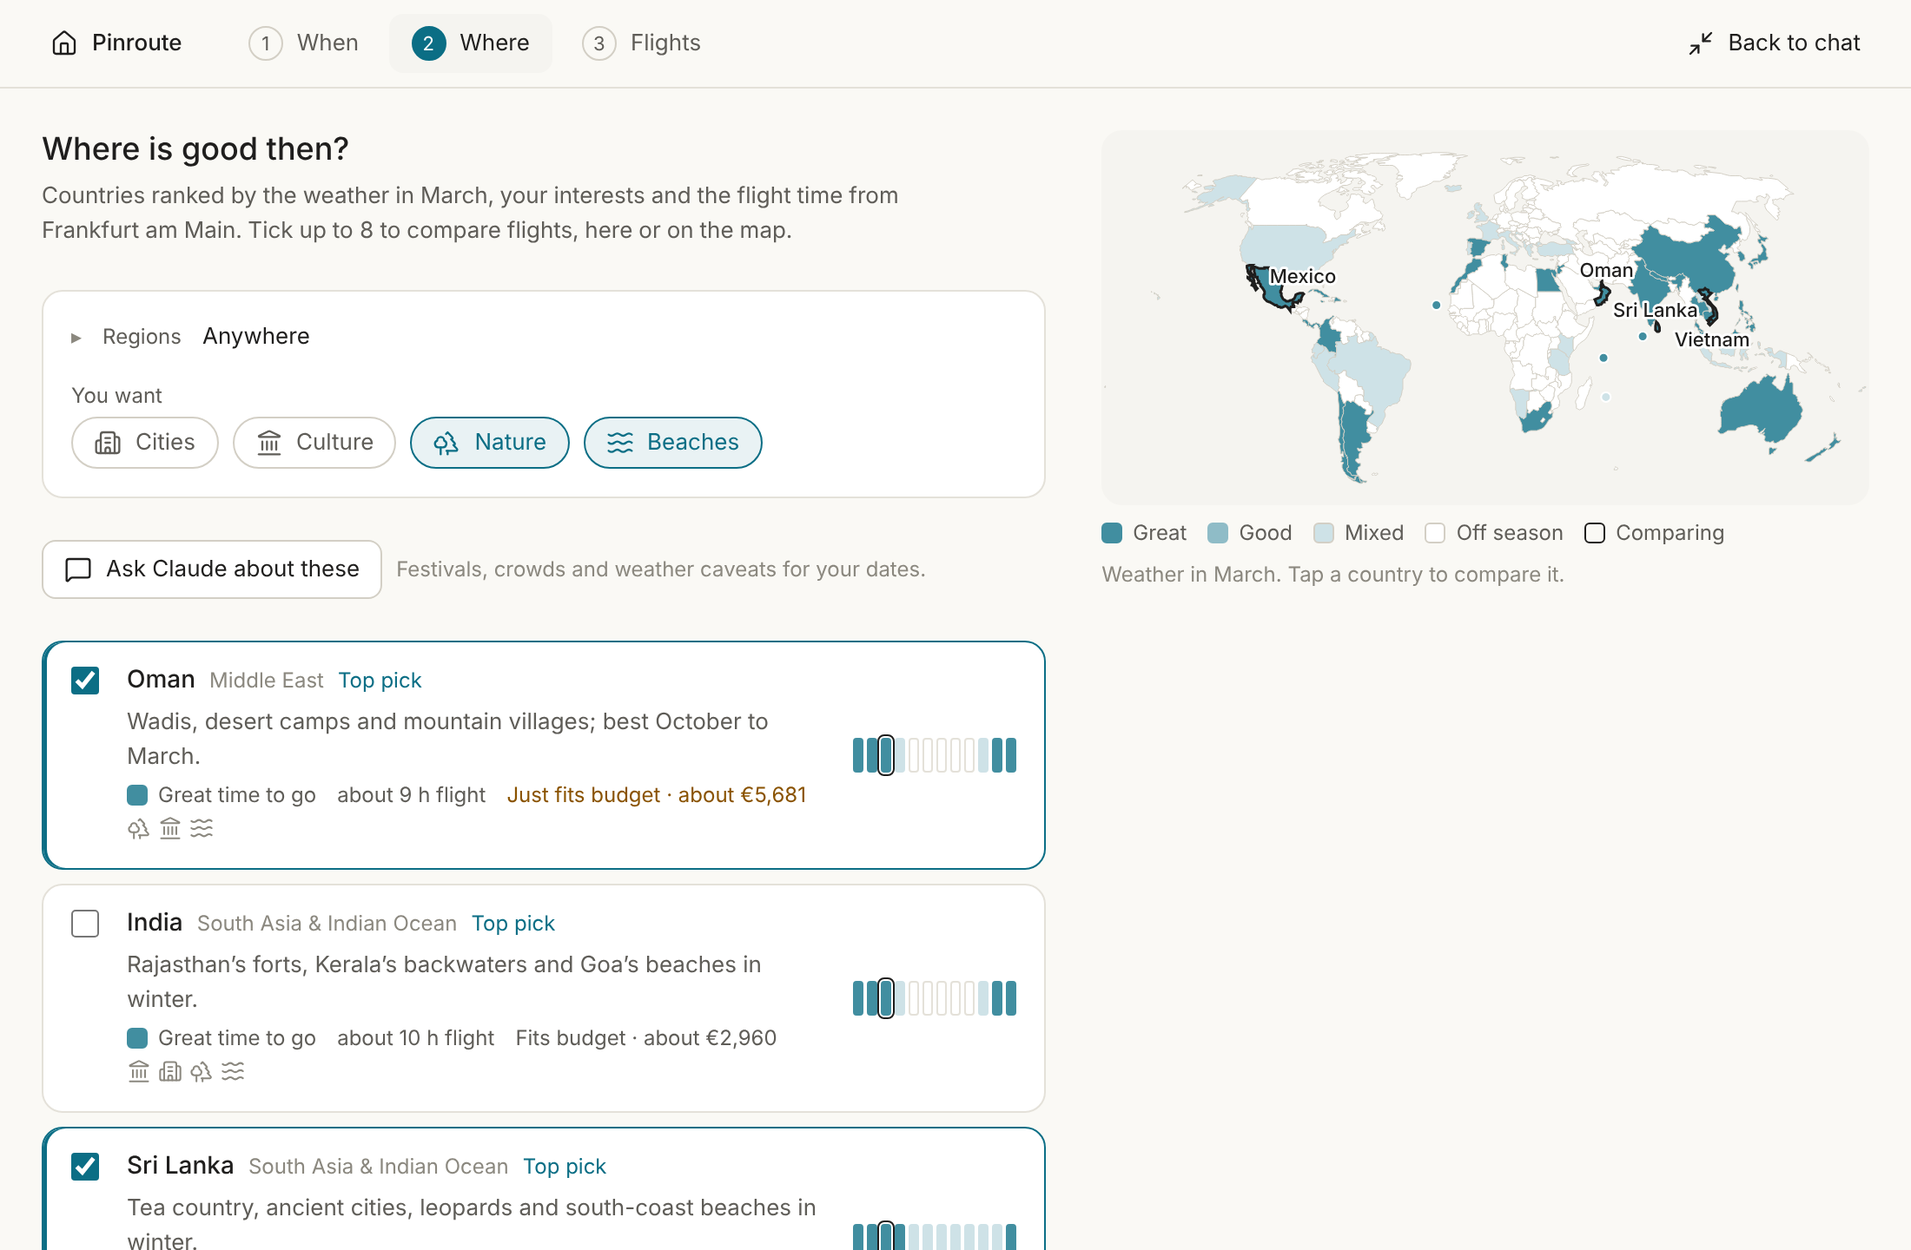
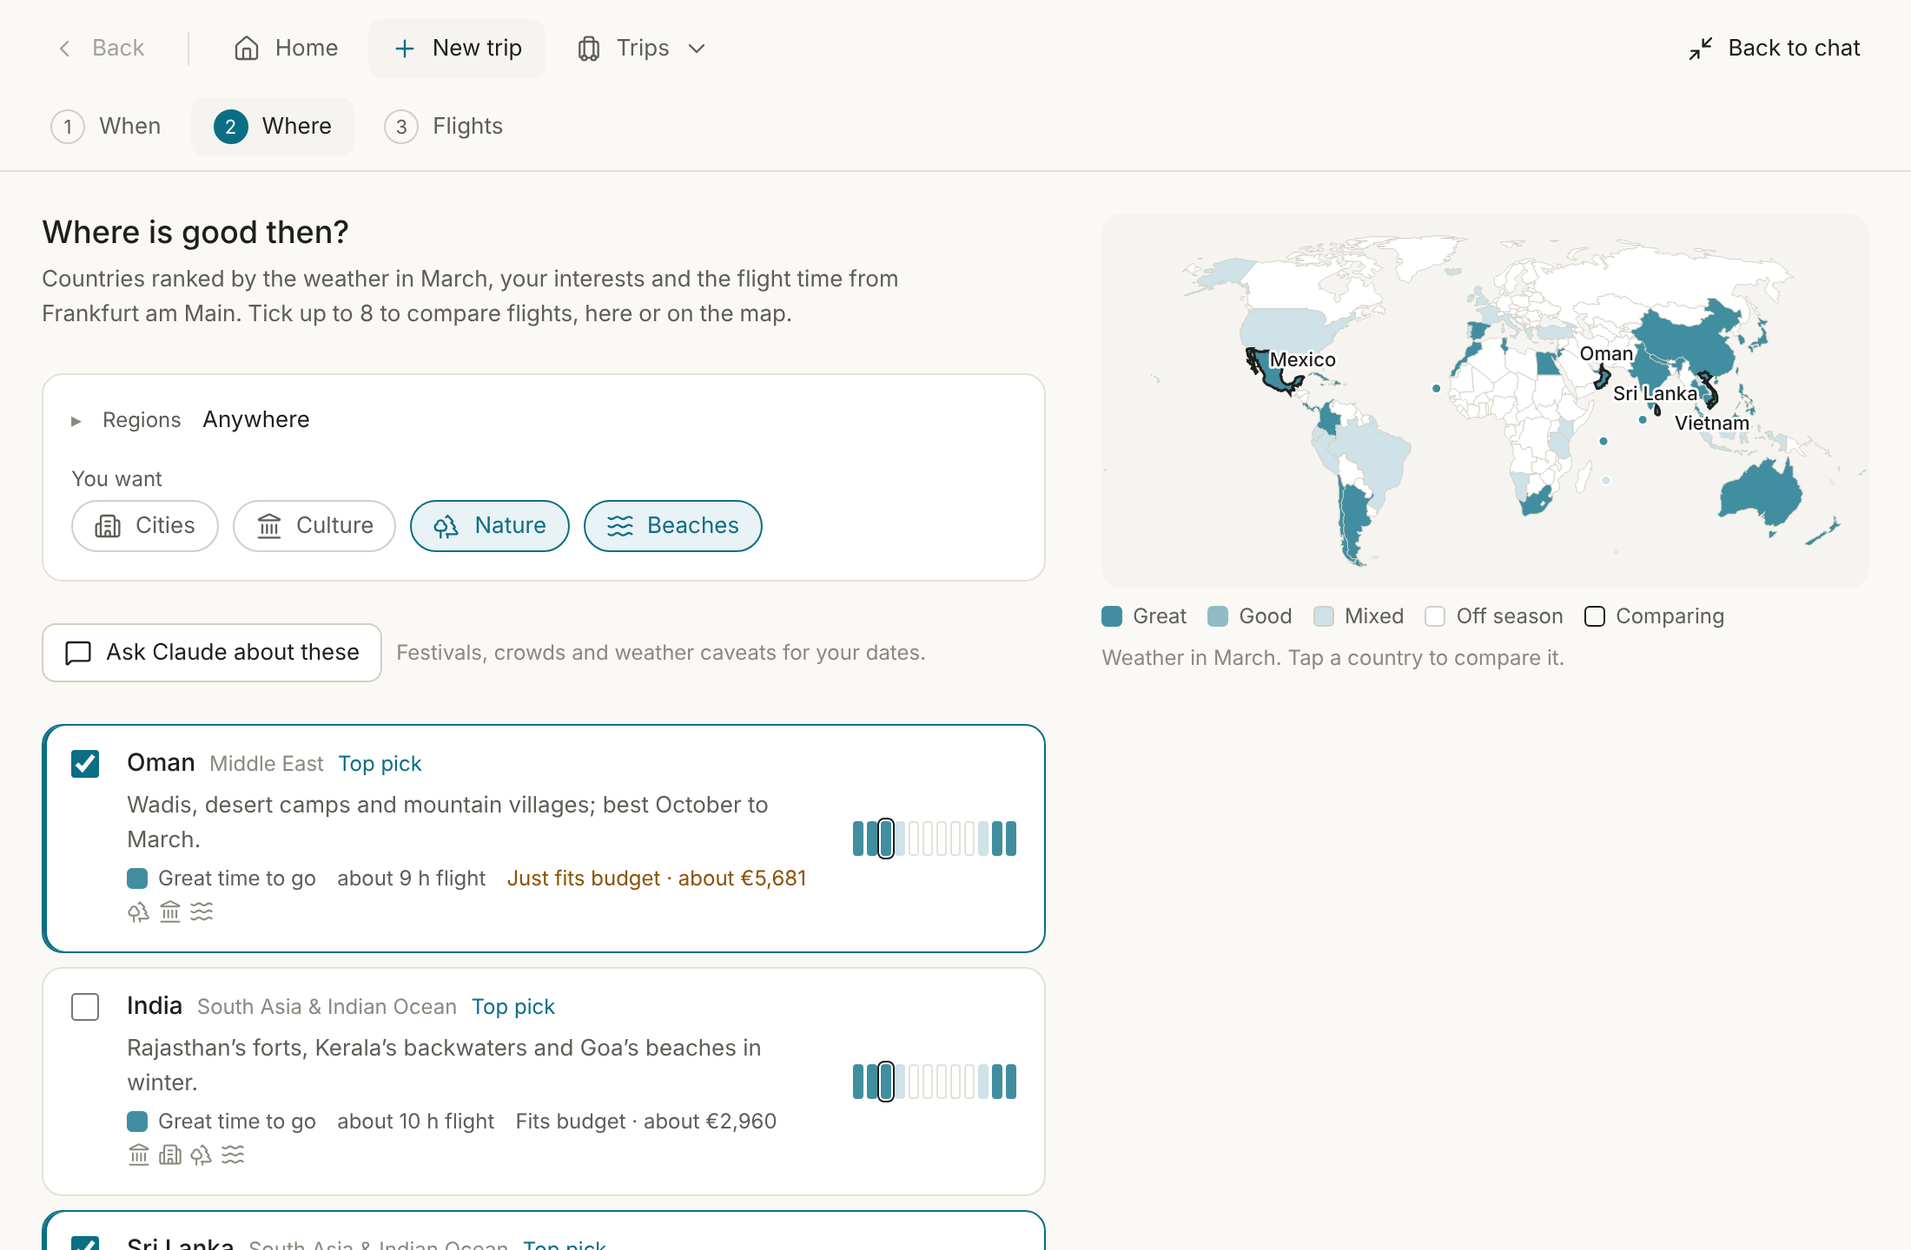
v0.4.1: navigation in the full-screen planner
- A bar along the top: Back (to the screen before, also Alt+←), Home, New trip and Trips, and Back to chat. The new-trip steps sit under it.
- Trips opens a list of the traveller's trips, the one under way first, then what comes next, then the past; on a trip the tab carries its name.
- On a phone: Back, the screen's title and the way out on top; Home, New trip and Trips as tabs at the bottom, above the host's safe area; the trip list opens as a sheet above the tabs.
- The trip card in the chat also offers All trips.
- 73 tests, listing images refreshed.

Claude-Session: https://claude.ai/code/session_01NtsHTA5QGqkP7m9dyYrDvM

diff --git a/ui/nav.js b/ui/nav.js
@@ -1,0 +1,87 @@
+// Getting around Pinroute when it is open full screen, the way an app does: Back to the screen before, three places
+// that are always one tap away (Home, New trip, Trips) and the way back to the chat. On a computer they sit in a bar
+// along the top; on a phone the bar on top keeps Back, the title and the way out, and the three places move to tabs
+// at the bottom, in thumb reach. Trips opens a list of the traveller's trips, the one under way first.
+import { House, Plus, Luggage, ChevronLeft, ChevronDown, Minimize2 } from 'lucide';
+import { nav, go, goBack, setMode, call, render } from './core.js';
+import { h, icon, span, today } from './dom.js';
+
+const M = { open: false, trips: null, error: '' };
+
+const stateOf = (t, now = today()) => (t.start <= now && now < t.end ? 'now' : t.start > now ? 'ahead' : 'done');
+const ORDER = { now: 0, ahead: 1, done: 2 };
+const STATE = { now: 'Under way', ahead: 'Coming up', done: 'Done' };
+function ordered(trips) {
+  return trips.map((t) => ({ ...t, state: stateOf(t) }))
+    .sort((a, b) => ORDER[a.state] - ORDER[b.state] || (a.state === 'done' ? b.start.localeCompare(a.start) : a.start.localeCompare(b.start)));
+}
+
+async function toggleTrips() {
+  M.open = !M.open;
+  render();
+  if (!M.open) return;
+  try { M.trips = ordered((await call('list_trips')).structuredContent?.trips || []); M.error = ''; }
+  catch (e) { M.error = e.message || String(e); }
+  render();
+  document.querySelector('#trips-menu [role="menuitem"]')?.focus();
+}
+function closeTrips(focus) {
+  if (!M.open) return;
+  M.open = false;
+  render();
+  if (focus) document.getElementById('trips-tab')?.focus();
+}
+const goPlace = (name, args) => { M.open = false; return go(name, args); };
+
+function tripsMenu(tripId) {
+  const items = M.trips == null
+    ? [h('p', { class: 'meta busy', text: 'Loading your trips…' })]
+    : M.trips.length
+      ? M.trips.map((t) => h('button', { role: 'menuitem', class: 'mi', 'aria-current': t.id === tripId ? 'true' : null, onclick: () => goPlace('open_planner', { trip_id: t.id }) },
+        h('span', { class: 'mi-t', text: t.name }),
+        h('span', { class: 'small', text: `${span(t.start, t.end)} · ${STATE[t.state]}` })))
+      : [h('p', { class: 'meta', text: 'No trips yet. Plan one from New trip.' })];
+  return h('div', { class: 'menu', id: 'trips-menu', role: 'menu', 'aria-label': 'Your trips',
+    onkeydown: (e) => {
+      const all = [...e.currentTarget.querySelectorAll('[role="menuitem"]')], i = all.indexOf(document.activeElement);
+      if (e.key === 'ArrowDown' || e.key === 'ArrowUp') { e.preventDefault(); all[(i + (e.key === 'ArrowDown' ? 1 : all.length - 1)) % all.length]?.focus(); }
+    } },
+  M.error ? h('p', { class: 'note warn', text: M.error }) : null, ...items);
+}
+
+// The three places. `where` is 'home', 'new' or 'trip'; on a trip the Trips tab carries the trip's name.
+function places(where, tripName, tripId, phone) {
+  const tab = (id, ic, label, onclick, extra = {}) => h('button', { class: `tab${phone ? ' bottom' : ''}`, 'aria-current': where === id ? 'page' : null, onclick, ...extra },
+    icon(ic), h('span', { class: 'tab-l', text: label }), extra['aria-haspopup'] && !phone ? icon(ChevronDown) : null);
+  return [
+    tab('home', House, 'Home', () => goPlace('open_planner', {})),
+    tab('new', Plus, 'New trip', () => goPlace('plan_new_trip', {})),
+    h('div', { class: 'trips-wrap' },
+      tab('trip', Luggage, where === 'trip' && tripName && !phone ? tripName : 'Trips', toggleTrips,
+        { id: 'trips-tab', 'aria-haspopup': 'menu', 'aria-expanded': String(M.open), 'aria-controls': 'trips-menu', title: where === 'trip' ? tripName : 'Your trips' }),
+      M.open ? tripsMenu(tripId) : null),
+  ];
+}
+
+// layout: 'app' (full screen) or 'stacked' (a host without full screen); phone: narrow full screen
+export function navBar({ layout, phone, where, title, tripName, tripId, steps }) {
+  const back = h('button', { class: `ghost back${phone ? ' icon' : ''}`, 'aria-label': 'Back', title: 'Back (Alt+←)', disabled: !nav.back.length, onclick: () => goBack() },
+    icon(ChevronLeft), phone ? null : 'Back');
+  const out = layout === 'app'
+    ? h('button', { class: phone ? 'ghost icon' : 'ghost', 'aria-label': 'Back to chat', title: 'Back to chat', onclick: () => setMode('inline') }, icon(Minimize2), phone ? null : 'Back to chat')
+    : null;
+  const row = phone
+    ? h('div', { class: 'bar-row' }, back, h('span', { class: 'bar-title', text: title }), out)
+    : h('div', { class: 'bar-row' }, back, h('span', { class: 'sep', 'aria-hidden': 'true' }), h('nav', { class: 'places', 'aria-label': 'Pinroute' }, places(where, tripName, tripId, false)), h('span', { class: 'grow' }), out);
+  return [row, steps ? h('div', { class: 'bar-row sub' }, steps) : null].filter(Boolean);
+}
+
+// The tabs along the bottom of a phone
+export const navTabs = ({ where, tripName, tripId }) => places(where, tripName, tripId, true);
+
+// Closing the trips list: Escape, or a tap anywhere else. Alt+← goes back, as in a browser.
+document.addEventListener('pointerdown', (e) => { if (M.open && !e.target.closest('.trips-wrap')) closeTrips(false); });
+document.addEventListener('keydown', (e) => {
+  if (e.key === 'Escape' && M.open) { e.preventDefault(); closeTrips(true); }
+  if (e.altKey && e.key === 'ArrowLeft' && nav.back.length && !/^(INPUT|TEXTAREA|SELECT)$/.test(e.target.tagName)) { e.preventDefault(); goBack(); }
+});

diff --git a/ui/planner.js b/ui/planner.js
@@ -6,11 +6,12 @@
 // It talks to the Pinroute server through the host (callServerTool), asks Claude, on the traveller's own plan, for the
 // work that needs a model (sendMessage), and tells Claude what changed (updateModelContext).
 import { applyDocumentTheme, applyHostStyleVariables, applyHostFonts } from '@modelcontextprotocol/ext-apps';
-import { Plane, Ship, Car, MapPin, Check, Plus, Minus, ExternalLink, ChevronLeft, Maximize2, Minimize2, MessageSquare, House, Route } from 'lucide';
-import { app, ui, $, onRender, onShow, canFull, isFull, layout, narrow, textOf, showError, call, go, setMode, tell, ask, waiting } from './core.js';
+import { Plane, Ship, Car, MapPin, Check, Plus, Minus, ExternalLink, ChevronLeft, Maximize2, MessageSquare, Route } from 'lucide';
+import { app, ui, $, onRender, onShow, canFull, isFull, layout, narrow, textOf, showError, call, go, setMode, setHere, tell, ask, waiting } from './core.js';
 import { h, s, icon, day, longDay, span, days, nightsTxt, money, hm, clock, today } from './dom.js';
 import { takeHome, homeCard, homeScreen } from './home.js';
 import { takeNew, newCard, newSteps, newScreen, newKey } from './newtrip.js';
+import { navBar, navTabs } from './nav.js';
 
 let screen = null;         // 'home', 'new' or 'trip'
 let V = null;              // the trip as the server sent it
@@ -61,16 +62,19 @@ function render() {
 }
 onRender(render);
 
-// Full screen and in hosts without it: a bar to the start screen, the new-trip steps, and back to the chat
+// Full screen and in hosts without it: Back, Home, New trip, Trips and the way back to the chat (nav.js). On a phone
+// full screen, Home, New trip and Trips are tabs along the bottom.
 function bar(L) {
-  const el = $('bar');
+  const el = $('bar'), tabs = $('tabs');
   el.hidden = L === 'card';
-  if (el.hidden) return;
-  const small = window.innerWidth < 720;
-  el.replaceChildren(
-    h('button', { class: `ghost brand${small ? ' icon' : ''}`, 'aria-label': 'Pinroute', 'aria-current': screen === 'home' ? 'page' : null, title: 'Start screen', onclick: () => go('open_planner', {}) }, icon(House), small ? null : 'Pinroute'),
-    screen === 'new' ? newSteps() : h('span', { class: 'grow' }),
-    L === 'app' ? h('button', { class: small ? 'ghost icon' : 'ghost', 'aria-label': 'Back to chat', title: 'Back to chat', onclick: () => setMode('inline') }, icon(Minimize2), small ? null : 'Back to chat') : null);
+  const phone = L === 'app' && window.innerWidth < 720;
+  tabs.hidden = !phone;
+  if (el.hidden) { tabs.replaceChildren(); return; }
+  const trip = screen === 'trip' && V ? V.trip : null;
+  const where = { where: screen, tripName: trip?.name, tripId: trip?.id };
+  const title = screen === 'trip' ? trip?.name : screen === 'new' ? 'New trip' : 'Pinroute';
+  el.replaceChildren(...navBar({ layout: L, phone, title, steps: screen === 'new' ? newSteps() : null, ...where }));
+  tabs.replaceChildren(...(phone ? navTabs(where) : []));
 }
 
 // The start screen and the new-trip planner in the chat: a title, a line or two, a small map and one main action
@@ -100,7 +104,8 @@ function renderTrip(L) {
   $('side').replaceChildren(...(L === 'card' ? [mapSvg({ mini: true })] : []).filter(Boolean));
   $('strip').replaceChildren(strip());
   $('open-row').hidden = L !== 'card';
-  $('open-row').replaceChildren(h('button', { class: 'primary', onclick: () => openAt(sel) }, icon(Maximize2), 'Open planner'));
+  $('open-row').replaceChildren(h('div', { class: 'acts' }, h('button', { class: 'primary', onclick: () => openAt(sel) }, icon(Maximize2), 'Open planner'),
+    canFull() ? h('button', { onclick: () => go('open_planner', {}) }, 'All trips') : null));
   $('panes').hidden = L === 'card';
   if (L !== 'card') { $('list').replaceChildren(...listView()); $('detail').replaceChildren(...detailView()); }
 }
@@ -468,11 +473,11 @@ function take(r) {
 // A tool result picks the screen: the start screen, the new-trip planner, or a trip
 function showResult(r) {
   const sc = r.structuredContent || {};
-  if (sc.screen === 'home') { takeHome(sc); screen = 'home'; }
-  else if (sc.screen === 'new') { takeNew(sc); screen = 'new'; }
+  if (sc.screen === 'home') { takeHome(sc); screen = 'home'; setHere({ name: 'open_planner', args: {} }); }
+  else if (sc.screen === 'new') { takeNew(sc); screen = 'new'; setHere({ name: 'plan_new_trip', args: {} }); }
   else if (sc.trip) {
     if (V?.trip.id !== sc.trip.id) { sel = null; pane = 'list'; }
-    take(r); screen = 'trip';
+    take(r); screen = 'trip'; setHere({ name: 'open_planner', args: { trip_id: sc.trip.id } });
   }
   render();
 }
@@ -485,6 +490,8 @@ function applyContext(next) {
   if (ui.ctx.theme) applyDocumentTheme(ui.ctx.theme);
   if (ui.ctx.styles?.variables) applyHostStyleVariables(ui.ctx.styles.variables);
   if (ui.ctx.styles?.css?.fonts) applyHostFonts(ui.ctx.styles.css.fonts);
+  const inset = ui.ctx.safeAreaInsets || {};
+  document.documentElement.style.setProperty('--safe-bottom', `${inset.bottom || 0}px`);
   render();
 }
 

diff --git a/ui/planner.css b/ui/planner.css
@@ -118,12 +118,41 @@ kbd { font: inherit; font-size: 11px; line-height: 16px; padding: 0 var(--s-1); 
 #app[data-layout="app"] { height: 100vh; display: flex; flex-direction: column; padding: 0; }
 #app[data-layout="app"] > #screen { flex: 1; min-height: 0; display: flex; flex-direction: column; padding: var(--s-4) var(--s-4) 0; }
 #app[data-layout="app"] > #error { margin: var(--s-3) var(--s-4) 0; }
-.bar { display: flex; align-items: center; gap: var(--s-3); min-height: 48px; }
+
+/* ---- navigation: Back, Home, New trip, Trips and the way out along the top; on a phone the three places are
+   tabs at the bottom. The current place is marked with the paper tint and a teal icon. */
+.bar { display: grid; gap: var(--s-2); }
+.bar-row { display: flex; align-items: center; gap: var(--s-1); min-height: 40px; min-width: 0; }
+.bar-row.sub { min-height: 0; }
 #app[data-layout="app"] > .bar { padding: var(--s-2) var(--s-4); border-bottom: 1px solid var(--line); }
-#app[data-layout="stacked"] > .bar { padding-bottom: var(--s-3); margin-bottom: var(--s-4); border-bottom: 1px solid var(--line); flex-wrap: wrap; }
-.bar .brand { font-weight: var(--medium); }
-.bar .brand[aria-current="page"] { color: var(--accent); }
+#app[data-layout="stacked"] > .bar { padding-bottom: var(--s-3); margin-bottom: var(--s-4); border-bottom: 1px solid var(--line); }
 .bar .grow { flex: 1; }
+.bar .sep { flex: none; width: 1px; height: 20px; background: var(--line); margin: 0 var(--s-2); }
+.bar .back { margin: 0; }
+.back:disabled { opacity: 0.4; }
+.bar-title { flex: 1; min-width: 0; text-align: center; font-weight: var(--medium); overflow: hidden; text-overflow: ellipsis; white-space: nowrap; }
+.places { display: flex; align-items: center; gap: var(--s-1); min-width: 0; }
+.tab { border-color: transparent; background: transparent; color: var(--ink-2); white-space: nowrap; min-width: 0; }
+.tab:hover { background: var(--paper-2); color: var(--ink); }
+.tab[aria-current="page"] { color: var(--ink); background: var(--paper-2); }
+.tab[aria-current="page"] > svg.i:first-child { color: var(--accent); }
+.tab .tab-l { overflow: hidden; text-overflow: ellipsis; max-width: 260px; }
+.trips-wrap { position: relative; min-width: 0; }
+.menu { position: absolute; z-index: 20; top: calc(100% + 4px); left: 0; width: max-content; min-width: 260px; max-width: min(380px, calc(100vw - 32px)); max-height: 60vh; overflow-y: auto;
+  display: grid; gap: 2px; padding: var(--s-1); background: var(--paper); border: 1px solid var(--line-2); border-radius: var(--r-2); box-shadow: 0 8px 24px rgb(0 0 0 / 0.14); }
+.menu > p { margin: 0; padding: var(--s-2) var(--s-3); }
+.mi { display: grid; justify-items: start; gap: 0; width: 100%; min-height: 0; padding: var(--s-2) var(--s-3); text-align: left; border-color: transparent; background: transparent; }
+.mi:hover, .mi:focus-visible { background: var(--paper-2); }
+.mi[aria-current="true"] { box-shadow: inset 2px 0 0 var(--accent); }
+.mi-t { color: var(--ink); }
+#app[data-layout="app"] > .tabs { position: relative; display: grid; grid-template-columns: repeat(3, minmax(0, 1fr)); gap: var(--s-1);
+  padding: var(--s-1) var(--s-2) calc(var(--s-1) + var(--safe-bottom, 0px)); border-top: 1px solid var(--line); background: var(--paper); }
+.tabs[hidden] { display: none !important; }
+#app[data-layout="app"][data-narrow="true"][data-screen="trip"] #name { display: none; }   /* the bar above already names the trip */
+.tabs .trips-wrap { position: static; display: grid; }
+.tab.bottom { display: grid; justify-items: center; align-content: center; gap: 2px; min-height: 48px; padding: var(--s-1); font-size: 11px; line-height: 14px; }
+.tab.bottom[aria-current="page"] { background: transparent; }
+.tabs .menu { left: var(--s-2); right: var(--s-2); top: auto; bottom: calc(100% + 4px); width: auto; max-width: none; }
 .steps { flex: 1; display: flex; gap: var(--s-1); list-style: none; margin: 0; padding: 0; min-width: 0; overflow-x: auto; }
 .step { border-color: transparent; background: transparent; color: var(--ink-2); white-space: nowrap; }
 .step .n { width: 20px; height: 20px; border-radius: 50%; border: 1px solid var(--line-2); display: grid; place-items: center; font-size: 11px; line-height: 1; }

diff --git a/ui/core.js b/ui/core.js
@@ -3,7 +3,7 @@
 import { App } from '@modelcontextprotocol/ext-apps';
 
 // Size reports start once the host has answered (see the start in planner.js), so none is sent into a closed channel
-export const app = new App({ name: 'Pinroute planner', version: '0.4.0' }, {}, { autoResize: false });
+export const app = new App({ name: 'Pinroute planner', version: '0.4.1' }, {}, { autoResize: false });
 export const $ = (id) => document.getElementById(id);
 export const ui = { ctx: {}, busy: false };
 
@@ -29,18 +29,32 @@ export async function call(name, args = {}) {
   return r;
 }
 
+// Where the traveller is and has been: each place is the tool call that shows it again, so Back reopens it fresh.
+// The screen sets `here` from what it shows (see where() in planner.js); go() remembers the place it leaves.
+export const nav = { here: null, back: [] };
+const same = (a, b) => a && b && a.name === b.name && JSON.stringify(a.args) === JSON.stringify(b.args);
+
 // Opens a screen from a tool call, full screen when the host offers it
-export async function go(name, args, { full = true } = {}) {
+export async function go(name, args, { full = true, remember = true } = {}) {
+  const from = nav.here;
   ui.busy = true; render();
   try {
     const r = await call(name, args);
     showError('');
     show(r);
+    if (remember && from && !same(from, nav.here)) nav.back = [...nav.back, from].slice(-20);
     if (full && canFull() && !isFull()) await setMode('fullscreen');
     return r;
   } catch (e) { showError(e.message || String(e)); return null; }
   finally { ui.busy = false; render(); }
 }
+export function goBack() {
+  const to = nav.back.at(-1);
+  if (!to) return null;
+  nav.back = nav.back.slice(0, -1);
+  return go(to.name, to.args, { remember: false });
+}
+export const setHere = (place) => { nav.here = place; };
 
 export async function setMode(mode) {
   try {

diff --git a/ui/planner.html b/ui/planner.html
@@ -9,9 +9,10 @@
 </head>
 <body>
 <div id="app" data-layout="card">
-  <nav id="bar" class="bar" aria-label="Pinroute" hidden></nav>
+  <header id="bar" class="bar" hidden></header>
   <p id="error" class="note warn" role="alert" hidden></p>
   <div id="screen"><p class="meta">Loading Pinroute…</p></div>
+  <nav id="tabs" class="tabs" aria-label="Pinroute" hidden></nav>
 </div>
 <script>/*JS*/</script>
 </body>

diff --git a/README.md b/README.md
@@ -10,7 +10,7 @@ Why inside Claude: Anthropic does not allow other apps to offer a Claude login o
 Claude (the traveller's own plan)
  ├─ talks with the traveller; researches flights, routes and local picks with its own tools
  ├─ calls this server's tools ──── token from the sign-in service ────► Pinroute server (this repo)
- └─ shows the planner (ui/, one HTML)                                     ├─ checks the token (src/auth.mjs)
+ └─ shows the planner (ui/, one HTML; Back, Home, New trip, Trips)       ├─ checks the token (src/auth.mjs)
       ├─ start screen: I know when / I know where, the trips              ├─ trips, draft, fares, picks per person (SQLite on the volume)
       ├─ new trip: When → Where → Flights, Country → Best time → Flights  ├─ 60 countries by season and price level (src/discover.mjs)
       ├─ a trip: route, flights, ferries, local picks                     ├─ airports and Thailand places (src/data)
@@ -148,7 +148,7 @@ src/geo.mjs           airports (OurAirports, public domain), Pinroute's Thailand
 src/data/             airports.json, places-th.json, destinations.json (60 countries: seasons, gateway, price level)
 src/trips.mjs         dates and legs of a trip
 src/map.mjs           a trip's coastline map; src/world.mjs the world map, drawn at build time
-ui/                   the planner: planner.js (screens, trip), home.js, newtrip.js, world.js, core.js, dom.js,
+ui/                   the planner: planner.js (screens, trip), home.js, newtrip.js, nav.js, world.js, core.js, dom.js,
                       planner.css, planner.html → dist/planner.html (npm run build)
 scripts/              build-ui, check-amadeus, screenshots
 listing/              directory listing: draft answers, screenshots, icon
